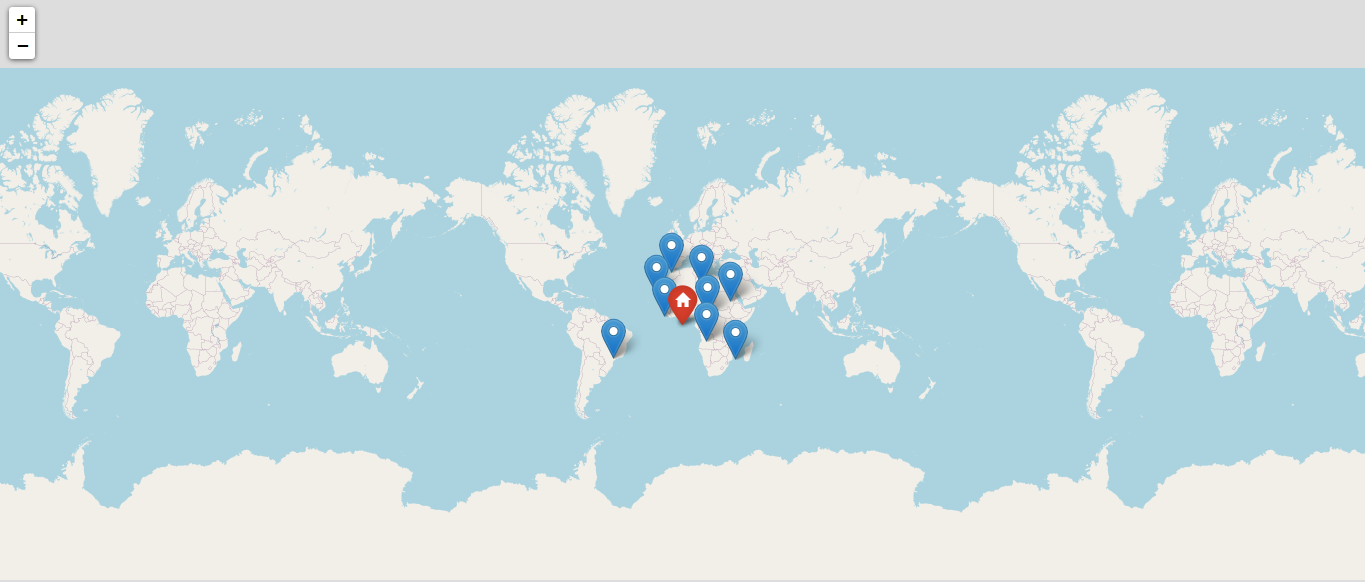
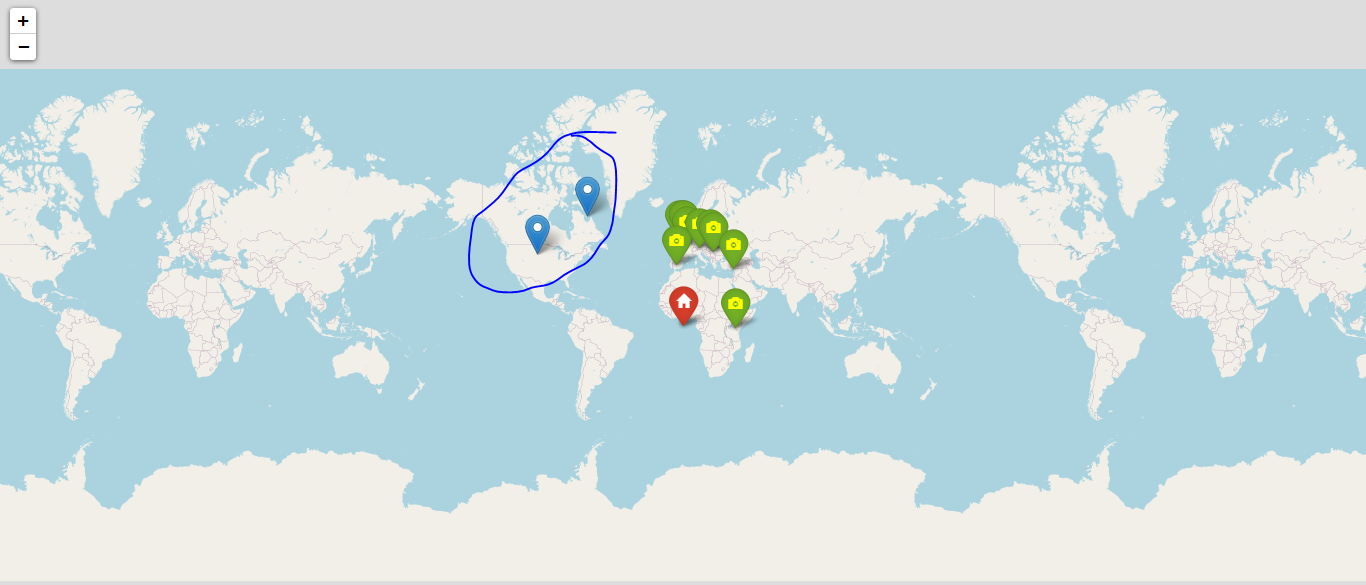
Changed README

diff --git a/README.md b/README.md
@@ -8,6 +8,8 @@
 
 ![text](map.PNG?raw=true "text")
 
+також при натисканні ЛКМ на карту можна добавляти ось такі сині маркери(обведено синім).
+
 ### Структура html файлу map.html, який створюється після виконаня модуля. ###
 
 "!DOCTYPE html" тег відповідає за мову програмування якою написано
